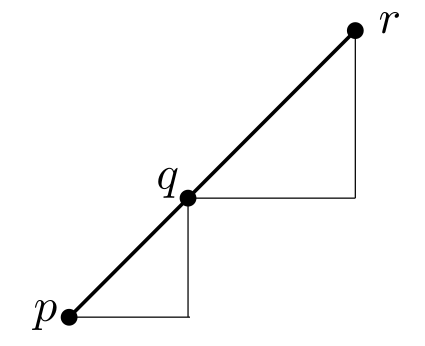
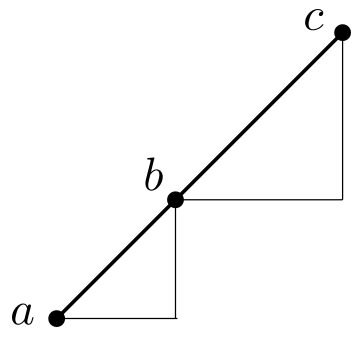
improvements to the Weiler-Atherton post

diff --git a/_posts/2023-09-30-polygon-clipping.md b/_posts/2023-09-30-polygon-clipping.md
@@ -105,7 +105,7 @@ The code for drawing these Hilbert curves can be found [here][hilbert_curve].
 
 The fact that it can handle complex cases is in part due to extensive testing.
 There are over 70 unit tests for the algorithm.
-The figure above shows 24 distinct cases. On top of this, each test case is run twice with swapped inputs to ensure the function is symmetric.
+The figure above shows 24 distinct cases. These are then all run twice with swapped inputs to ensure the function is symmetric.
 There are further slight variations on the ones shown, such as translations of one of the polygons.
 
 The main code is in this file: <a href="https://github.com/LiorSinai/PolygonAlgorithms.jl/blob/main/src/intersect_poly.jl">intersect_poly.jl</a>.
@@ -113,6 +113,9 @@ This post will mostly describe the algorithm in pseudo-code and with images so t
 The various sections correspond with function names in the code.
 
 #### Concepts 
+
+Finding the intersection of polygons is easy for humans because we can consider the polygon as a whole.
+However to make an algorithm is challenging since we have to break it up into smaller pieces for a computer.
 
 <figure class="post-figure">
 <img class="img-95"
@@ -122,7 +125,7 @@ The various sections correspond with function names in the code.
 <figcaption>The information available at each step in the Weiler-Atherton algorithm. </figcaption>
 </figure>
 
-The main concept behind the algorithm is at any stage we only need 12 pieces of information, six per polygon:
+The main concept behind the Weiler-Atherton algorithm is at any stage we only need 12 pieces of information, six per polygon (for special cases we will need more):
 1. The two co-ordinates of each of the two vertices on an edge. 
 2. The direction of the edge.
 3. The fact that the vertices of the polygon as a whole are ordered clockwise.
@@ -130,12 +133,8 @@ The main concept behind the algorithm is at any stage we only need 12 pieces of 
 With points 2 and 3 we can always determine which direction is inside the polygon.
 (Take a moment to convince yourself of this fact with a pen and paper.)
 
-Because of this minimal information, this algorithm struggles with certain situations like self intersecting curves and some degenerate cases.
-
-Finding the intersection of polygons is easy for humans because we can consider the polygon as a whole.
-However to make an algorithm is challenging since we have to break it up into smaller pieces for a computer.
-
-The [Martinez-Rueda Algorithm (2009)][martinez_rueda_paper] is a more recent and more robust algorithm which can handle these cases. It is based on the concept of a vertical line sweep, which gives us more information per step:
+The [Martinez-Rueda Algorithm (2009)][martinez_rueda_paper] is a more recent and more versatile algorithm.
+It is based on the concept of a vertical line sweep, which gives us more information per step:
 
 <figure class="post-figure">
 <img class="img-95"
@@ -165,15 +164,15 @@ I chose to go with the Weiler-Atherton algorithm because it is simpler.
                 >
         </div>
     </div>
-    <figcaption>Self-intersecting polygons. Left: correct answer. Right: incorrectly shades in the middle region and skips all actual regions of intersection.</figcaption>
+    <figcaption>Self-intersecting polygons. Left: correct answer because the self-intersections coincide with the main intersections. Right: incorrectly shades in the middle region and skips all actual regions of intersection.</figcaption>
 </figure>
 
 The implementation described here has the following limitations.
 1. It does not cater for holes in the polygon. (The original version had an extension for this case.)
-2. It can fail completely for self-intersecting polygons.  (Extensions for this cas edo exist.)
+2. It can fail completely for self-intersecting polygons.  (Extensions for this case do exist.)
 
-It can work (no guarantee) if only one of the polygons is self-intersecting.
-But it struggles for two self-intersecting polygons.
+It some special cases it will work if only one polygon is self-intersecting but there is no guarantee.
+It will definitely struggle for two self-intersecting polygons.
 
 <h2 id="the-algorithm">2 The algorithm</h2>
 
@@ -183,8 +182,8 @@ The Weiler-Atherton algorithm is as follows:
   <li>Start with two lists of the vertices of polygon 1 and polygon 2 ordered clockwise.</li>
   <li>Find all the intersections between the edges of polygon 2 with polygon 1.
     <ol type="i">
-        <li>Insert each intersection in both lists maintaining the clockwise order of points. </li>
-        <li>Label each intersection as ENTRY or EXIT points depending on if they enter or exit polygon 1 from/to polygon 2. Label them as VERTIX if neither.</li>
+        <li>Insert each intersection into both lists maintaining the clockwise order of points. </li>
+        <li>Label each intersection as ENTRY or EXIT points depending on if they enter polygon 1 from polygon 2 or exit polygon 1 to polygon 2. Label them as VERTIX if neither.</li>
     </ol>
   </li>
   <li>Walk through all vertices on polygon 2.
@@ -236,7 +235,7 @@ Create links between the intersection points.
 </figure>
 
 <b>Step 2: </b> walk through the vertices on polygon 2.
-Whenever unvisited entry points are found, start walking through a loop following exit/entry points to polygon 1 and back until the start vertix is encountered again. These loops are the regions of intersection.
+Whenever an unvisited entry point is found, start walking through a loop following exit/entry points to polygon 1 and back until the starting point is encountered again. These loops are the regions of intersection.
 
 <figure class="post-figure">
 <img class="img-95"
@@ -249,6 +248,14 @@ Whenever unvisited entry points are found, start walking through a loop followin
 Note that upon entering polygon 1 we walk along the edges on polygon 2 which are inside polygon 1, and upon exiting we walk along the edges of polygon 1 which define the boundary of the region of intersection.
 
 <h2 id="doubly-linked-lists">3 Doubly Linked lists</h2>
+
+<figure class="post-figure">
+<img class="img-95"
+    src="/assets/posts/polygon-clipping/doubly_linked_list.png"
+	alt="doubly linked list"
+	>
+<figcaption>A doubly linked list.</figcaption>
+</figure>
 
 An interesting question is how to create two lists that we can simply insert points in and create links between the two.
 This problem is solved with doubly linked lists.
@@ -359,7 +366,7 @@ links[node1x].data # x
 Note how we didn't have to update the old links.
 The underlying pointers still point to the same data, which is why we went to all this effort.
 
-Lastly can collect the lists to recreate the arrays as before:
+Lastly we can collect the lists to recreate the arrays as before:
 {% highlight julia %}
 collect(list1) # ['a','x','b','c']
 collect(list2) # ['d','x','e','b','f']
@@ -374,8 +381,8 @@ There are ${nm}$ pairs so this is an $\mathcal{O}(nm)$ algorithm.
 
 <blockquote>
 <u><b>Find intersections</b></u> <br>
-<b>for</b> edge$_1$ $\leftarrow$ original(polygon$_1$) <b>do</b>: <br>
-$\quad$ <b>for</b> edge$_2$ $\leftarrow$ original(polygon$_2$) <b>do</b>: <br>
+<b>for</b> edge$_2$ $\leftarrow$ original(polygon$_2$) <b>do</b>: <br>
+$\quad$ <b>for</b> edge$_1$ $\leftarrow$ original(polygon$_1$) <b>do</b>: <br>
 $\quad\quad$ $p \leftarrow$ intersect(edge$_1$,  edge$_2$) <br>
 $\quad\quad$ <b>if</b> $p$ <br>
 $\quad\quad\quad$ node$_1$ $\leftarrow$ insert_in_order(polygon$_1$, $p$) <br>
@@ -452,9 +459,9 @@ This condition is satisfied when $\min(x_1, x_2) \leq x \leq \max(x_1, x_2)$ and
 The intersections have to be inserted maintaining the clockwise order.
 If there is one intersection on the edge the new point can be automatically placed between the tail and the head of the edge.
 Otherwise if there are multiple intersections on the edge (see the [example](#fig-weiler-atherton-example-2)) then we need to determine which intersection is placed first.
-The basic idea is to check that the distance from the current node to the intersection is less than the distance from the current node to the next node.
-If not, advance one node forward (on to an existing intersection point) and try again.
-We also need to check if the intersection was already inserted or equivalently, the same as an original node of the polygon.
+The basic idea is to check that the distance from the current vertix to the intersection is less than the distance from the current vertix to the next vertix.
+If not, advance one vertix forward (on to an existing intersection point) and try again.
+We also need to check if the intersection was already inserted or equivalently, the same as an original vertix of the polygon.
 
 <blockquote>
 <u><b>Insert intersection in order</b></u> <br>
@@ -473,7 +480,7 @@ $s_+\leftarrow $insert($s$, $p$) <br>
 <b>return</b> $s_+$
 </blockquote>
 
-Here $s_+$ refers to the node after $s$.
+Here $s_+$ refers to the vertix after $s$.
 
 <h2 id="linking-intersections">5 Linking intersections</h2>
 
@@ -544,7 +551,7 @@ The derivation uses the double angle formula for $\sin$ and the identity $\sin(\
     The same formula can be derived with the determinant formula for the cross product:
     \[
     \begin{align}
-    \mathbf{p} \times \mathbf{r} &= |p||r|\sin(\theta-\alpha) \\
+    \mathbf{p} \times \mathbf{r} &= |\mathbf{p}||\mathbf{r}|\sin(\theta-\alpha) \\
     &=
     \det
     \begin{bmatrix} 
@@ -592,8 +599,9 @@ There are 6 case of edge intersections:
 3. Polygon 2 only intersects polygon 1 at a single point.
 4. The first three cases but the edges of polygon 2 are inside polygon 1. These cases do not count as entering or exiting.
 
-We have a choice to count the edge intersections as intersections or not.
-I wanted my algorithm to return the edge intersections if there was only an edge intersection or a point if there was only a point intersection.
+We have a choice to count theses cases intersections or not.
+For a graphical application they might not be relevant.
+However I wanted my algorithm to return the edge intersections if there was only an edge intersection or a point if there was only a point intersection.
 Therefore my code counts hitting an edge of polygon 1 as entering polygon 1 if the tail of edge 2 is not in polygon 1.
 The case of exiting is dealt with separately. Here the rule is: polygon 2 is exiting polygon 1 if the head of edge 2 is not in polygon 1.
 
@@ -619,17 +627,18 @@ There are several cases are which correspond to the cases already profiled for "
 2. The polygons have overlapping edges which touch at the common vertix. This is either an ENTRY or EXIT or a shared segment on a longer segment (VERTIX).
 
 There are three consecutive points on each polygon: the previous tail $p_-$, the intersection point/vertix $p$ and the next head $p_+$. 
-The subscript $1$ or $2$ denotes the polygon.
-Note that $p\equiv p_{1} \equiv p_{2}$.
+The letter $p$ or $q$ denotes the polygon.
+Note that $v\equiv p \equiv q$.
 The algorithm is then as follows:
 <blockquote>
 <u><b>Link vertix intersections</b></u> <br>
-inputs: $p$, $p_{1-}$, $p_{1+}$, $p_{2-}$, $p_{2+}$ <br>
-edge$_{1-}$ $\leftarrow (p_{1-}, p)$ <br>
-edge$_{1+}$ $\leftarrow (p, p_{1+})$ <br>
-next2_on_edge1, prev2_on_edge1 $\leftarrow$ has_edge_overlap($p$, $p_{1-}$, $p_{1+}$, $p_{2-}$, $p_{2+}$) <br>
-tail2_in_1 $\leftarrow$ in_plane(($p_{1-}$, $p$, $p_{1+}$), $p_{2-}$) <br>
-head2_in_1 $\leftarrow$ in_plane(($p_{1-}$, $p$, $p_{1+}$), $p_{2+}$) <br>
+inputs: $v$, $p_{-}$, $p_{+}$, $q_{-}$, $q_{+}$ <br>
+edge$_{1-}$ $\leftarrow (p_{-}, v)$ <br>
+edge$_{1+}$ $\leftarrow (v, p_{+})$ <br>
+prev2_on_edge1 $\leftarrow$ has_edge_overlap($v$, $p_{-}$, $p_{+}$, $q_{-}$) <br>
+next2_on_edge1 $\leftarrow$ has_edge_overlap($v$, $p_{-}$, $p_{+}$, $q_{+}$) <br>
+tail2_in_1 $\leftarrow$ in_plane(($p_{-}$, $v$, $p_{+}$), $q_{-}$) <br>
+head2_in_1 $\leftarrow$ in_plane(($p_{-}$, $v$, $p_{+}$), $q_{+}$) <br>
 tail2_in_1 $\leftarrow$ tail2_in_1 $\cup$ prev2_on_edge1 <br>
 head2_in_1 $\leftarrow$ head2_in_1 $\cup$ next2_on_edge1 <br>
 <b>if</b> tail2_in_1 = head2_in_1 <br>
@@ -638,18 +647,18 @@ $\quad$ <b>return</b> VERTIX <br>
 $\quad$ <b>return</b> ENTRY <b>if</b> head2_in_1 <b>else</b> EXIT 
 </blockquote>
 
-This little algorithm was arrived after much pain, trial and error.
+This little algorithm was arrived at after much pain, trial and error.
 
 <figure class="post-figure">
 <img class="img-95"
     src="/assets/posts/polygon-clipping/vertix_intersections.png"
 	alt="Vertix intersections"
 	>
-<figcaption>Left: $p_{2+}$ is in both half-planes of the edges of polygon 1. Middle and right: $p_{2+}$ is in the half-plane of the leading edge of polygon 1.</figcaption>
+<figcaption>Left: $p_{+}$ is in both half-planes of the edges of polygon 1. Middle and right: $p_{+}$ is in the half-plane of the leading edge of polygon 1 only.</figcaption>
 </figure>
 
 The half-plane equation $\ref{eq:half-plane}$ is not enough to tell if a point lies inside the polygon.
-If the the point lies in both half-planes then it is definitely in the polygon and if it lies outside both then it is definitely outside.
+If the point lies in both half-planes then it is definitely in the polygon and if it lies outside both then it is definitely outside.
 However if it lies in one then it can be either inside or outside.
 
 <figure class="post-figure">
@@ -661,7 +670,7 @@ However if it lies in one then it can be either inside or outside.
 </figure>
 
 Instead it is better to analyse the angles for a definitive answer. 
-Keeping in mind that the planes still need to be clockwise of the edges, there are only two cases to account for.
+Keeping in mind that the planes need to be clockwise of the edges, there are only two cases to account for.
 The first is that the tail edge angle $\theta_1$ is less than the leading edge angle $\theta_2$, and the second that it is greater.
 Then a point with angle $\alpha$ will lie inside if:
 
@@ -674,10 +683,10 @@ $$
 \label{eq:in-plane}
 $$
 
-The angle from a point $q$ to the vertix $v$ are calculated as:
+The angle from a point $(x, y)$ to the vertix $v$ is calculated as:
 
 $$
-\theta = \arctan\left(\frac{q_y-v_y}{q_x-v_x}\right)
+\theta = \arctan\left(\frac{y-v_y}{x-v_x}\right)
 $$
 
 The resulting angles should be in the range $[0, 2\pi]$.
@@ -694,10 +703,10 @@ This function with the negative values shifted by $+2\pi$ will have the desired 
 <figcaption>Left: both midpoints lie on the other edge and direction is opposite. Right: only $m_{1+}$ lies on the other edge and direction is same.</figcaption>
 </figure>
 
-The segment midpoint is calculated as:
+The segment midpoint from each point $(x,y)$ to the vertix $v$ is calculated as:
 
 $$
-m =  \left(\frac{p_{+, x} + p_{x}}{2}, \frac{p_{+, y} + p_{y}}{2}\right)
+m =  \left(\frac{x + v_{x}}{2}, \frac{y + v_{y}}{2}\right)
 $$
 
 To check if a specific edge overlaps with one of the other polygon's edges requires checking if (1) this midpoint lies on the other edge and/or (2) if the other edge's midpoint lies on this edge. The one edge might be significantly shorter so both might not be true.
@@ -709,12 +718,12 @@ So 2 checks per 2 directions per 2 edges is 8 checks in total.
 <figure class="post-figure">
 <img class="img-50"
     src="/assets/posts/polygon-clipping/on_segment.png"
-	alt="segment p-q-r"
+	alt="segment a-b-c"
 	>
-<figcaption>Segment p-q-r.</figcaption>
+<figcaption>Segment a-b-c.</figcaption>
 </figure>
 
-Determining if a point $q$ lies on a segment $\mathbf{pr}$ requires that the cross product $(\mathbf{r}-\mathbf{q}) \times (\mathbf{q}-\mathbf{p})$ is $0$ and that $q$ lies within the bounds $\min(p_x, r_x) \leq q_x \leq \max(p_x, r_x)$ and $\min(p_y, r_y) \leq q_y \leq \max(p_y, r_y)$. Equivalently, the lines have the same gradient and $q$ lies within those bounds.
+Determining if a point $b$ lies on a segment $\mathbf{ac}$ requires that the cross product $(\mathbf{c}-\mathbf{b}) \times (\mathbf{b}-\mathbf{a})$ is $0$ and that $b$ lies within the bounds $\min(a_x, c_x) \leq b_x \leq \max(a_x, c_x)$ and $\min(a_y, c_y) \leq b_y \leq \max(a_y, c_y)$. Equivalently, the lines have the same gradient and $b$ lies within those bounds.
 
 <h2 id="walk-linked-lists">6 Walk linked lists</h2>
 
@@ -747,7 +756,7 @@ $s \leftarrow s_{0+}$ <br>
 <b>while</b> $s \neq s_0$  <br>
 $\quad$ loop $\leftarrow$ loop $+ s$ <br>
 $\quad$ <b> if </b> ($s \in$ visited) $\cap$ (type($s$) $\neq$ VERTIX)  <br>
-$\quad\quad$ ERROR "Cycle detected with repeated node" <br>
+$\quad\quad$ ERROR "Cycle detected at node $s$" <br>
 $\quad$ visited $\leftarrow$ visited $+ s$ <br>
 $\quad$ <b> if </b> has_link($s$) $\cap$ (type($s$) $\neq$ VERTIX) <br>
 $\quad\quad$ $s \leftarrow$ link($s$) <br>
@@ -759,7 +768,7 @@ The cycle detection code is important.
 Despite the best effort so far, there are still some cases where this code could result in infinite loops because of repeated nodes.
 
 My code currently raises a warning instead of an error. 
-I recognise that message of "cycle detected at node x" is not very informative if you don't know the underlying algorithm. However at least it gives a clear indication of where the problem lies if you do.    
+I recognise that a message of "cycle detected at node x" is not very informative if you don't know the underlying algorithm. However at least it gives a clear indication of where the problem lies if you do.    
 
 ## Conclusion
 
@@ -772,6 +781,6 @@ That way $s \in \text{visited}$ will not fail if one point is slightly different
 
 There are further extensions for self-intersecting polygons which I may implement in the future.
 
-I am also considering implementing the Martinez-Rueda algorithm because it can readily handles self-intersecting polygons and can also do unions, differences and XOR.
+I am considering implementing the Martinez-Rueda algorithm because it can readily handles self-intersecting polygons and can also do unions, differences and XOR.
 
 ---
